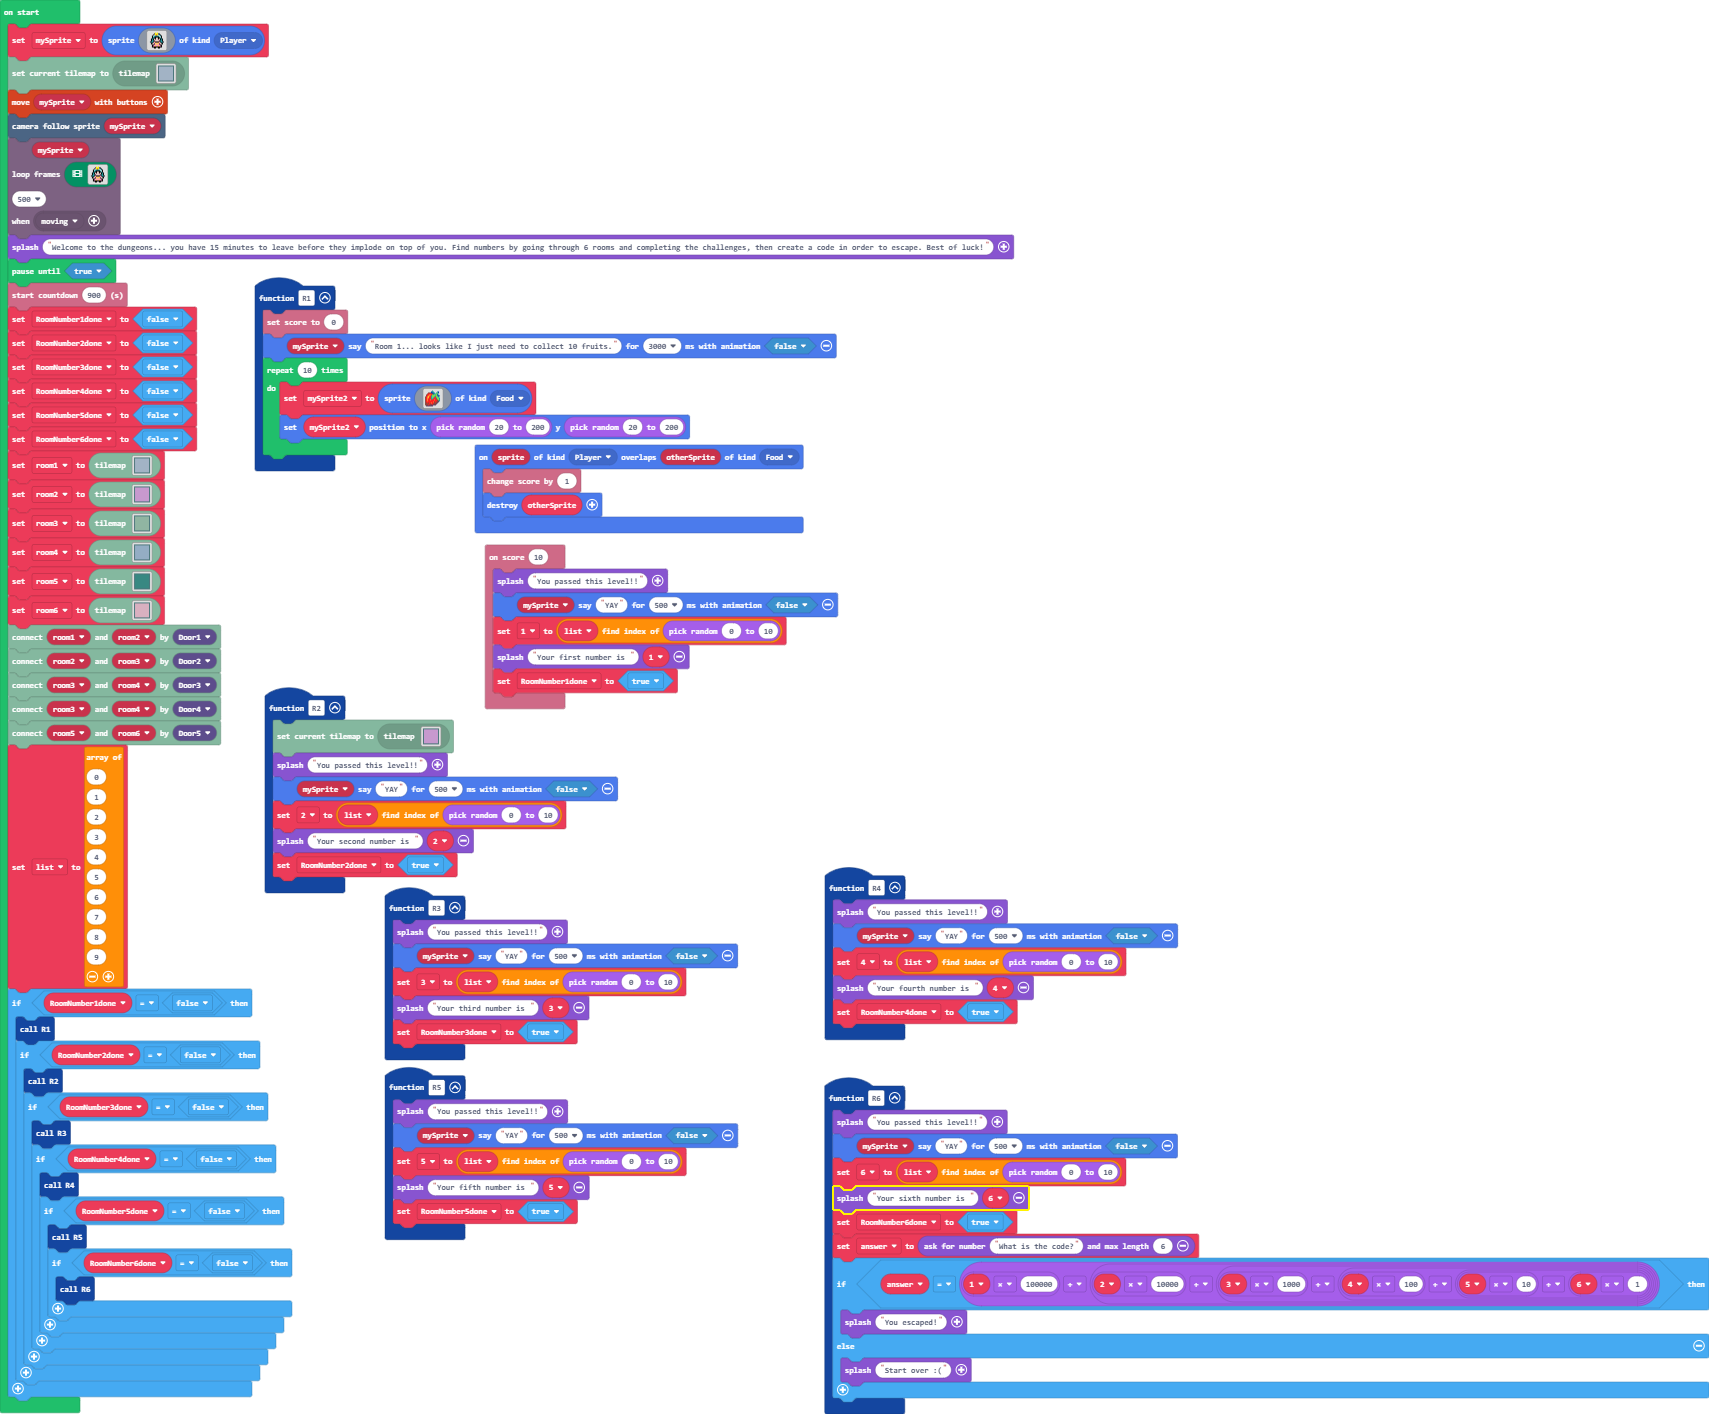
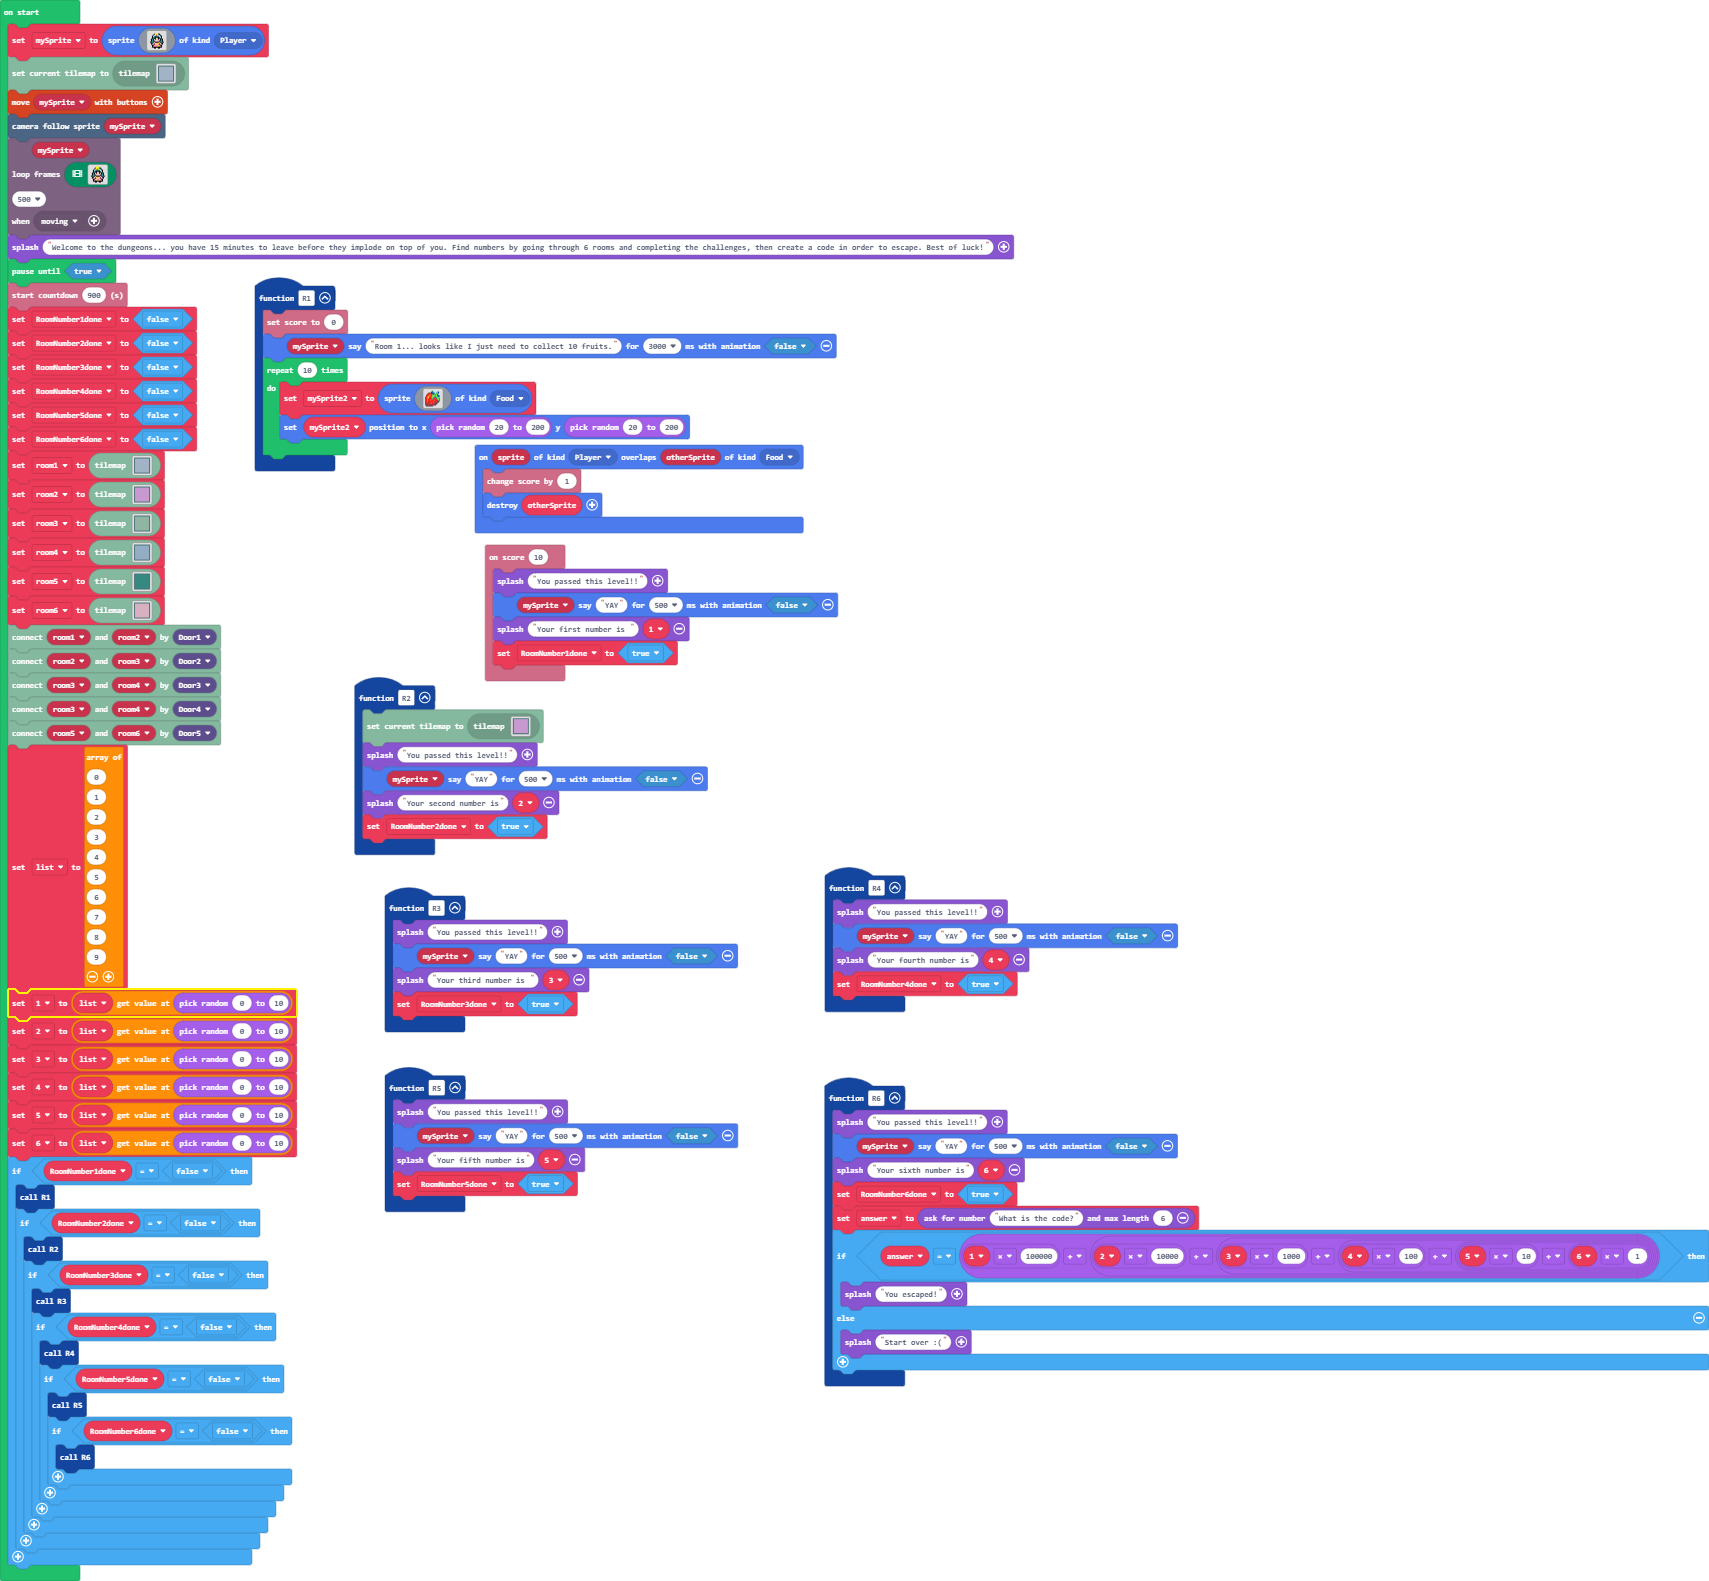
edits for code

diff --git a/main.ts b/main.ts
@@ -6,8 +6,7 @@ namespace ConnectionKind {
 function R6 () {
     game.splash("You passed this level!!")
     mySprite.sayText("YAY", 500, false)
-    _6 = list.indexOf(randint(0, 10))
-    game.splash("Your sixth number is ", _6)
+    game.splash("Your sixth number is", _6)
     RoomNumber6done = true
     answer = game.askForNumber("What is the code?", 6)
     if (answer == _1 * 100000 + (_2 * 10000 + (_3 * 1000 + (_4 * 100 + (_5 * 10 + _6 * 1))))) {
@@ -44,7 +43,6 @@ function R1 () {
 info.onScore(10, function () {
     game.splash("You passed this level!!")
     mySprite.sayText("YAY", 500, false)
-    _1 = list.indexOf(randint(0, 10))
     game.splash("Your first number is ", _1)
     RoomNumber1done = true
 })
@@ -52,22 +50,19 @@ function R2 () {
     tiles.loadMap(tiles.createMap(tilemap`level2`))
     game.splash("You passed this level!!")
     mySprite.sayText("YAY", 500, false)
-    _2 = list.indexOf(randint(0, 10))
-    game.splash("Your second number is ", _2)
+    game.splash("Your second number is", _2)
     RoomNumber2done = true
 }
 function R3 () {
     game.splash("You passed this level!!")
     mySprite.sayText("YAY", 500, false)
-    _3 = list.indexOf(randint(0, 10))
     game.splash("Your third number is ", _3)
     RoomNumber3done = true
 }
 function R4 () {
     game.splash("You passed this level!!")
     mySprite.sayText("YAY", 500, false)
-    _4 = list.indexOf(randint(0, 10))
-    game.splash("Your fourth number is ", _4)
+    game.splash("Your fourth number is", _4)
     RoomNumber4done = true
 }
 sprites.onOverlap(SpriteKind.Player, SpriteKind.Food, function (sprite, otherSprite) {
@@ -77,13 +72,11 @@ sprites.onOverlap(SpriteKind.Player, SpriteKind.Food, function (sprite, otherSpr
 function R5 () {
     game.splash("You passed this level!!")
     mySprite.sayText("YAY", 500, false)
-    _5 = list.indexOf(randint(0, 10))
-    game.splash("Your fifth number is ", _5)
+    game.splash("Your fifth number is", _5)
     RoomNumber5done = true
 }
 let mySprite2: Sprite = null
 let answer = 0
-let list: number[] = []
 let RoomNumber6done = false
 let RoomNumber5done = false
 let RoomNumber4done = false
@@ -195,7 +188,7 @@ tiles.connectMapById(room2, room3, ConnectionKind.Door2)
 tiles.connectMapById(room3, room4, ConnectionKind.Door3)
 tiles.connectMapById(room3, room4, ConnectionKind.Door4)
 tiles.connectMapById(room5, room6, ConnectionKind.Door5)
-list = [
+let list = [
 0,
 1,
 2,
@@ -207,6 +200,12 @@ list = [
 8,
 9
 ]
+_1 = list[randint(0, 10)]
+_2 = list[randint(0, 10)]
+_3 = list[randint(0, 10)]
+_4 = list[randint(0, 10)]
+_5 = list[randint(0, 10)]
+_6 = list[randint(0, 10)]
 if (RoomNumber1done == false) {
     R1()
     if (RoomNumber2done == false) {
